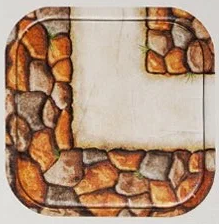
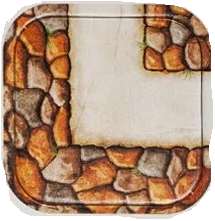
Карточки на поле отображаются правильно

diff --git a/Board.py b/Board.py
@@ -63,12 +63,9 @@ class Cell:
                         card_image.set_colorkey(COLOR_KEY)
                 else:
                     card_image = card_image.convert_alpha()
-
-                # Накладываем изображение карточки на тайл ровно по центру
-                w, h = self.image.get_size()
-                w1, h2 = card_image.get_size()
-                self.image.blit(card_image, (w // 2 - w1 // 2, h // 2 - h2 // 2))
-
+                self.card_image = card_image
+            else:
+                self.card_image = None
             self.image = pygame.transform.rotate(self.image, -self.rotation)
 
         else:
@@ -86,10 +83,15 @@ class Cell:
         return self.card
 
     def render(self, screen, cords):
+        if not self.card_image is None:
+            # Накладываем изображение карточки на тайл ровно по центру
+            w, h = self.image.get_size()
+            w1, h2 = self.card_image.get_size()
+            self.image.blit(self.card_image, (w // 2 - w1 // 2, h // 2 - h2 // 2))
         screen.blit(self.image, cords)
 
     def __str__(self):
-        return self.kind, self.rotation, self.card
+        return ' '.join(map(str, (self.kind, self.rotation, self.card)))
 
 
 class Board:
@@ -224,7 +226,7 @@ class Board:
         self.board_screen = self.start_screen.copy()
         for j in range(len(self.board)):
             for i in range(len(self.board[0])):
-                self.board[i][j].render(self.board_screen,
+                self.board[j][i].render(self.board_screen,
                                         ((self.cell_size + SPACING) * i, (self.cell_size + SPACING) * j))
         if not self.special_cell_cords is None:
             self.special_cell.render(self.board_screen,
@@ -287,10 +289,11 @@ screen = pygame.display.set_mode(size)
 if __name__ == '__main__':
     a = Board((0, 0))
     running = True
-    print(a.board[0][1].rotation)
-    print(a.board[1][0].rotation)
-    print(a.board[0][2].rotation)
-    print(a.board[2][0].rotation)
+    print(str(a.board[0][0]))
+    print(str(a.board[0][1]))
+    print(str(a.board[1][0]))
+    # print(str(a.board[0][0]))
+    # print(str(a.board[0][0]))
     while running:
         for event in pygame.event.get():
             if event.type == pygame.QUIT:
